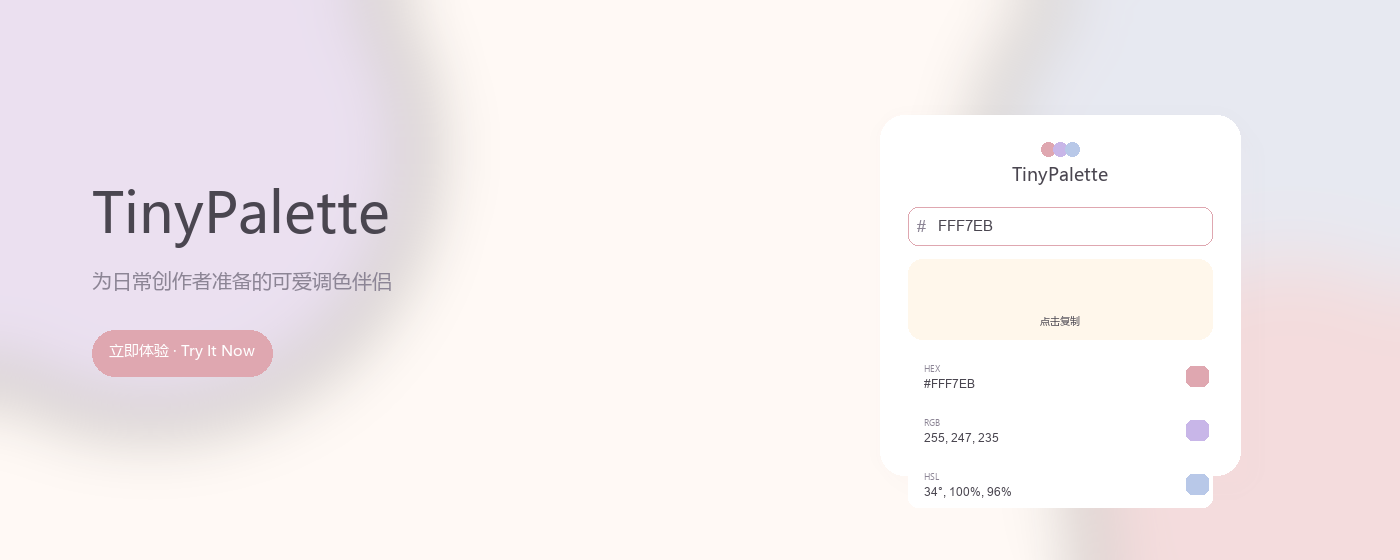
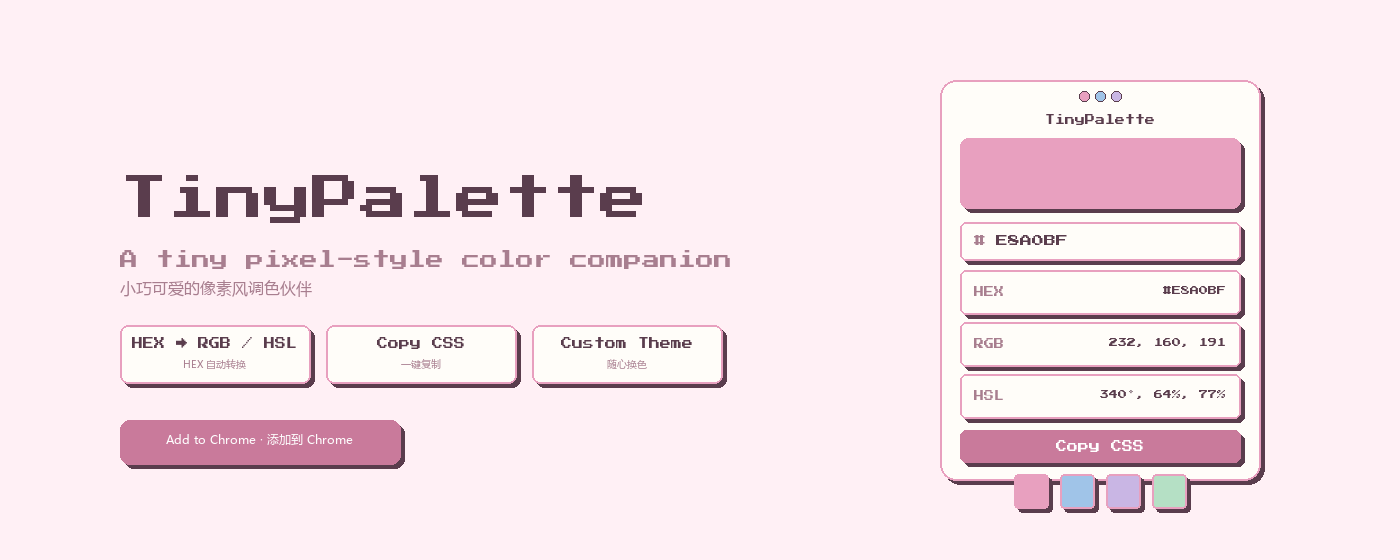
重制 TinyPalette 像素风双语宣传图并添加生成脚本

Changed region(s): [[0.645, 0.0, 0.9214, 1.0], [0.0, 0.0, 0.5221, 0.85]]

diff --git a/scripts/generate-store-promo.py b/scripts/generate-store-promo.py
@@ -1,0 +1,211 @@
+#!/usr/bin/env python3
+"""Generate TinyPalette Chrome Web Store promo tiles (bilingual English + Chinese)."""
+import os
+from PIL import Image, ImageDraw, ImageFont
+
+BASE = os.path.dirname(os.path.dirname(os.path.abspath(__file__)))
+FONT_PATH = os.path.join(BASE, "fonts", "PressStart2P-Regular.ttf")
+ICON_PATH = os.path.join(BASE, "icons", "icon48.png")
+OUT_DIR = os.path.join(BASE, "store-assets", "promo")
+
+# TinyPalette theme colors
+BG = "#FFF0F5"
+PANEL = "#FFFDF9"
+PRIMARY = "#E8A0BF"
+PRIMARY_DARK = "#C97A9B"
+TEXT = "#5A3D4D"
+TEXT_SOFT = "#A87E8F"
+SHADOW_RGBA = (90, 61, 77, 31)
+
+DEMO = "#E8A0BF"
+DEMO_RGB = "232, 160, 191"
+DEMO_HSL = "340°, 64%, 77%"
+SWATCHES = ["#E8A0BF", "#A0C4E8", "#C9B6E4", "#B5E0C5"]
+
+
+def hex_to_rgb(h):
+    h = h.lstrip("#")
+    return tuple(int(h[i:i + 2], 16) for i in (0, 2, 4))
+
+
+def rgba(h, a):
+    r, g, b = hex_to_rgb(h)
+    return (r, g, b, int(a * 255))
+
+
+def load_font(size):
+    return ImageFont.truetype(FONT_PATH, size)
+
+
+def load_cn_font(size):
+    candidates = [
+        "C:/Windows/Fonts/msyh.ttc",
+        "C:/Windows/Fonts/msyhbd.ttc",
+        "C:/Windows/Fonts/simhei.ttf",
+        "C:/Windows/Fonts/simsun.ttc",
+        "/System/Library/Fonts/PingFang.ttc",
+        "/usr/share/fonts/truetype/wqy/wqy-zenhei.ttc",
+    ]
+    for path in candidates:
+        if os.path.exists(path):
+            return ImageFont.truetype(path, size)
+    return load_font(size)
+
+
+def has_cn(text):
+    return any("\u4e00" <= c <= "\u9fff" for c in text)
+
+
+def get_font(text, size):
+    return load_cn_font(size) if has_cn(text) else load_font(size)
+
+
+def draw_text(d, x, y, text, size, fill, anchor="lt"):
+    font = get_font(text, size)
+    bbox = d.textbbox((0, 0), text, font=font)
+    tw, th = bbox[2] - bbox[0], bbox[3] - bbox[1]
+    dx, dy = 0, 0
+    if anchor == "mt":
+        dx, dy = -tw // 2, 0
+    elif anchor == "mm":
+        dx, dy = -tw // 2, -th // 2
+    elif anchor == "rt":
+        dx, dy = -tw, 0
+    d.text((x + dx - bbox[0], y + dy - bbox[1]), text, font=font, fill=fill)
+
+
+def draw_pixel_shadow_rect(d, box, fill, radius=6, border=None, border_width=2):
+    x1, y1, x2, y2 = box
+    d.rounded_rectangle([x1 + 4, y1 + 4, x2 + 4, y2 + 4], radius=radius, fill=SHADOW_RGBA)
+    d.rounded_rectangle(box, radius=radius, fill=fill)
+    if border:
+        d.rounded_rectangle(box, radius=radius, outline=border, width=border_width)
+
+
+def draw_popup_mock(d, x, y, w, h):
+    draw_pixel_shadow_rect(d, [x, y, x + w, y + h], PANEL, radius=16, border=rgba(PRIMARY, 0.7), border_width=2)
+
+    cx = x + w // 2
+    dot_r = 5
+    for i, col in enumerate(SWATCHES[:3]):
+        dx = (i - 1) * 16
+        d.rounded_rectangle([cx + dx - dot_r, y + 16 - dot_r, cx + dx + dot_r, y + 16 + dot_r],
+                            radius=dot_r, fill=col, outline=TEXT, width=1)
+    draw_text(d, cx, y + 34, "TinyPalette", 10, TEXT, anchor="mt")
+
+    py = y + 58
+    ph = 70
+    draw_pixel_shadow_rect(d, [x + 20, py, x + w - 20, py + ph], DEMO, radius=8,
+                           border=rgba(PRIMARY, 0.7), border_width=2)
+
+    hy = py + ph + 14
+    rh = 38
+    draw_pixel_shadow_rect(d, [x + 20, hy, x + w - 20, hy + rh], PANEL, radius=6,
+                           border=rgba(PRIMARY, 0.7), border_width=2)
+    draw_text(d, x + 34, hy + 13, "#", 12, TEXT_SOFT)
+    draw_text(d, x + 56, hy + 13, "E8A0BF", 12, TEXT)
+
+    row_y = hy + rh + 10
+    row_h = 44
+    gap = 8
+    labels = [("HEX", "#E8A0BF"), ("RGB", DEMO_RGB), ("HSL", DEMO_HSL)]
+    for i, (label, value) in enumerate(labels):
+        ry = row_y + i * (row_h + gap)
+        draw_pixel_shadow_rect(d, [x + 20, ry, x + w - 20, ry + row_h], PANEL, radius=6,
+                               border=rgba(PRIMARY, 0.5), border_width=2)
+        draw_text(d, x + 34, ry + 16, label, 10, TEXT_SOFT)
+        draw_text(d, x + w - 34, ry + 16, value, 9, TEXT, anchor="rt")
+
+    by = row_y + 3 * (row_h + gap) + 4
+    bw = w - 40
+    bh = 32
+    draw_pixel_shadow_rect(d, [x + 20, by, x + 20 + bw, by + bh], PRIMARY_DARK, radius=6)
+    draw_text(d, x + 20 + bw // 2, by + 10, "Copy CSS", 11, "#FFFFFF", anchor="mt")
+
+    sy = by + bh + 12
+    sw = 34
+    gap_s = 12
+    start_x = x + (w - (4 * sw + 3 * gap_s)) // 2
+    for i, col in enumerate(SWATCHES):
+        sx = start_x + i * (sw + gap_s)
+        draw_pixel_shadow_rect(d, [sx, sy, sx + sw, sy + sw], col, radius=4,
+                               border=rgba(PRIMARY, 0.6), border_width=2)
+
+
+def draw_440():
+    W, H = 440, 280
+    img = Image.new("RGBA", (W, H), hex_to_rgb(BG) + (255,))
+    d = ImageDraw.Draw(img)
+    cx = W // 2
+
+    icon = Image.open(ICON_PATH).convert("RGBA")
+    img.paste(icon, (cx - icon.width // 2, 55), icon)
+
+    draw_text(d, cx, 120, "TinyPalette", 24, TEXT, anchor="mt")
+    draw_text(d, cx, 154, "Pixel color picker", 10, TEXT_SOFT, anchor="mt")
+    draw_text(d, cx, 175, "像素调色伙伴", 12, TEXT_SOFT, anchor="mt")
+
+    sw = 20
+    gap = 10
+    start_x = cx - (4 * sw + 3 * gap) // 2
+    sy = 205
+    for i, col in enumerate(SWATCHES):
+        sx = start_x + i * (sw + gap)
+        draw_pixel_shadow_rect(d, [sx, sy, sx + sw, sy + sw], col, radius=4,
+                               border=rgba(PRIMARY, 0.7), border_width=2)
+
+    bw, bh = 190, 28
+    bx, by = cx - bw // 2, 240
+    draw_pixel_shadow_rect(d, [bx, by, bx + bw, by + bh], PRIMARY_DARK, radius=8)
+    draw_text(d, cx, by + 8, "Try It Now · 立即体验", 10, "#FFFFFF", anchor="mt")
+
+    out_path = os.path.join(OUT_DIR, "440x280.png")
+    img.convert("RGB").save(out_path, "PNG")
+    print("Saved", out_path)
+
+
+def draw_1400():
+    W, H = 1400, 560
+    img = Image.new("RGBA", (W, H), hex_to_rgb(BG) + (255,))
+    d = ImageDraw.Draw(img)
+
+    lx = 120
+    draw_text(d, lx, 175, "TinyPalette", 48, TEXT)
+    draw_text(d, lx, 250, "A tiny pixel-style color companion", 18, TEXT_SOFT)
+    draw_text(d, lx, 280, "小巧可爱的像素风调色伙伴", 16, TEXT_SOFT)
+
+    chips = [
+        ("HEX → RGB / HSL", "HEX 自动转换"),
+        ("Copy CSS", "一键复制"),
+        ("Custom Theme", "随心换色"),
+    ]
+    chip_w, chip_h = 190, 58
+    chip_gap = 16
+    cy = 325
+    for i, (en, zh) in enumerate(chips):
+        cx = lx + i * (chip_w + chip_gap)
+        draw_pixel_shadow_rect(d, [cx, cy, cx + chip_w, cy + chip_h], PANEL, radius=8,
+                               border=rgba(PRIMARY, 0.6), border_width=2)
+        draw_text(d, cx + chip_w // 2, cy + 12, en, 11, TEXT, anchor="mt")
+        draw_text(d, cx + chip_w // 2, cy + 34, zh, 10, TEXT_SOFT, anchor="mt")
+
+    bw, bh = 280, 44
+    bx, by = lx, 420
+    draw_pixel_shadow_rect(d, [bx, by, bx + bw, by + bh], PRIMARY_DARK, radius=10)
+    draw_text(d, bx + bw // 2, by + 14, "Add to Chrome · 添加到 Chrome", 12, "#FFFFFF", anchor="mt")
+
+    mw, mh = 320, 400
+    mx = W - mw - 140
+    my = (H - mh) // 2
+    draw_popup_mock(d, mx, my, mw, mh)
+
+    out_path = os.path.join(OUT_DIR, "1400x560.png")
+    img.convert("RGB").save(out_path, "PNG")
+    print("Saved", out_path)
+
+
+if __name__ == "__main__":
+    os.makedirs(OUT_DIR, exist_ok=True)
+    draw_440()
+    draw_1400()
+    print("Done.")
